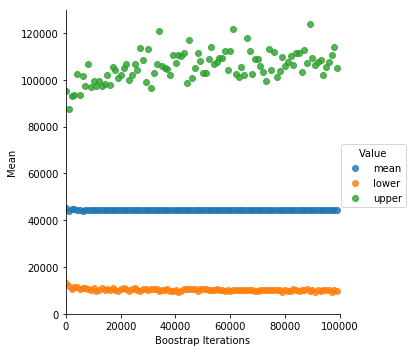
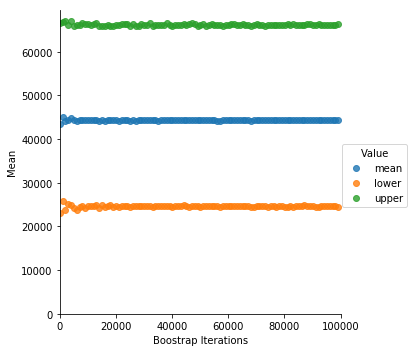
modify bootstrap.py

diff --git a/labs/lab2/bootstrap.py b/labs/lab2/bootstrap.py
@@ -32,11 +32,11 @@ def boostrap(sample, sample_size, iterations):
         # store the means
         means.append (np.mean (boot_samples))
     
-    # obtain the mean, min and max of the boot sample means    
+    # obtain the mean, 5% & 95% percentile of the boot sample means    
     means = np.array (means)
     data_mean = np.mean (means)
-    lower = np.amin (means)
-    upper = np.amax (means)
+    lower = np.percentile (means, 5)
+    upper = np.percentile (means, 95)
     
     return data_mean, lower, upper
 
